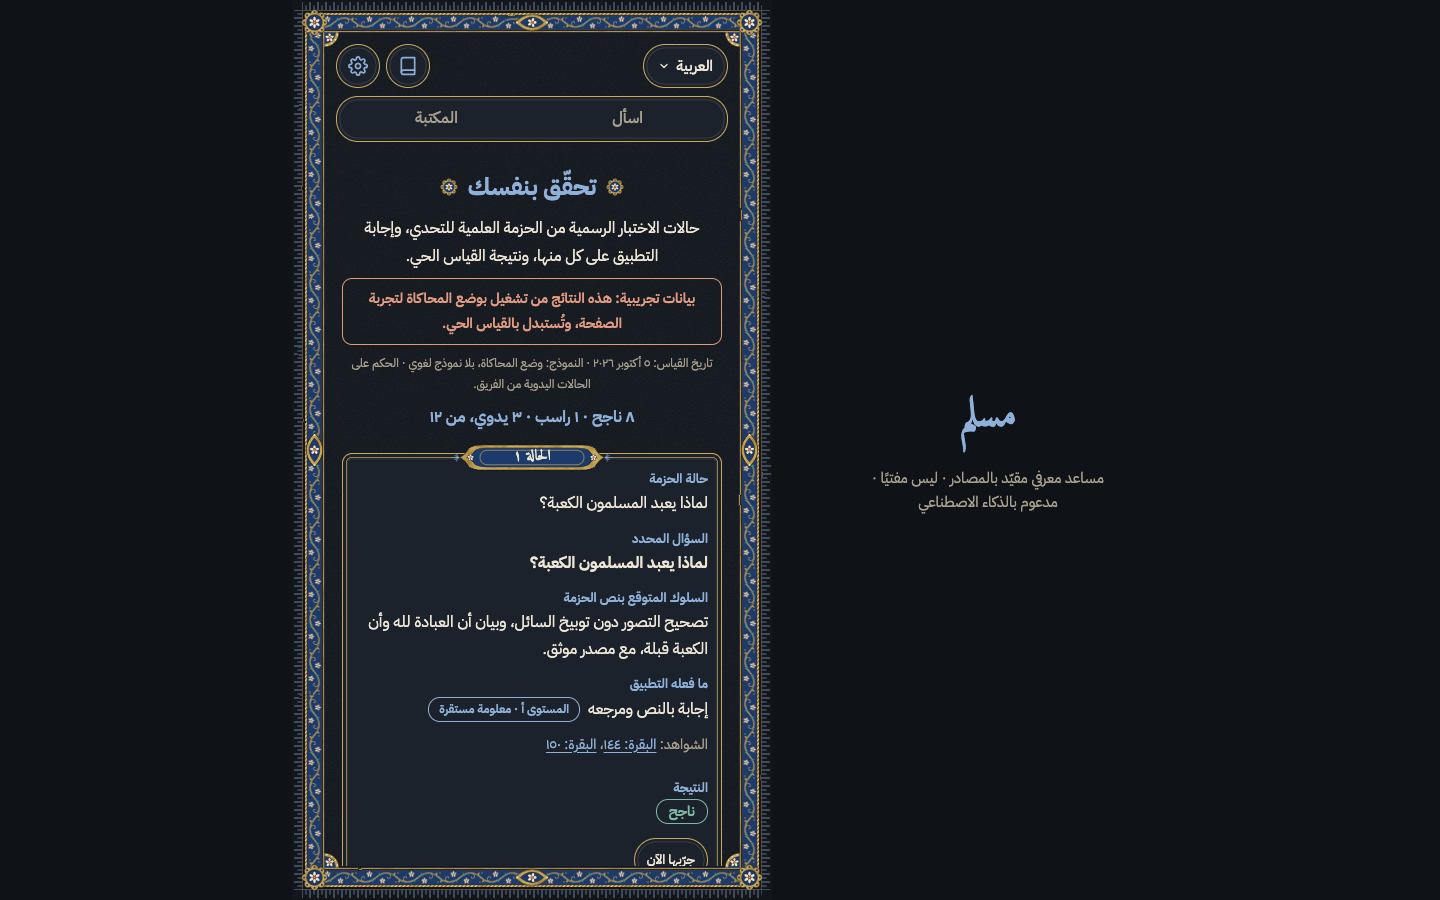
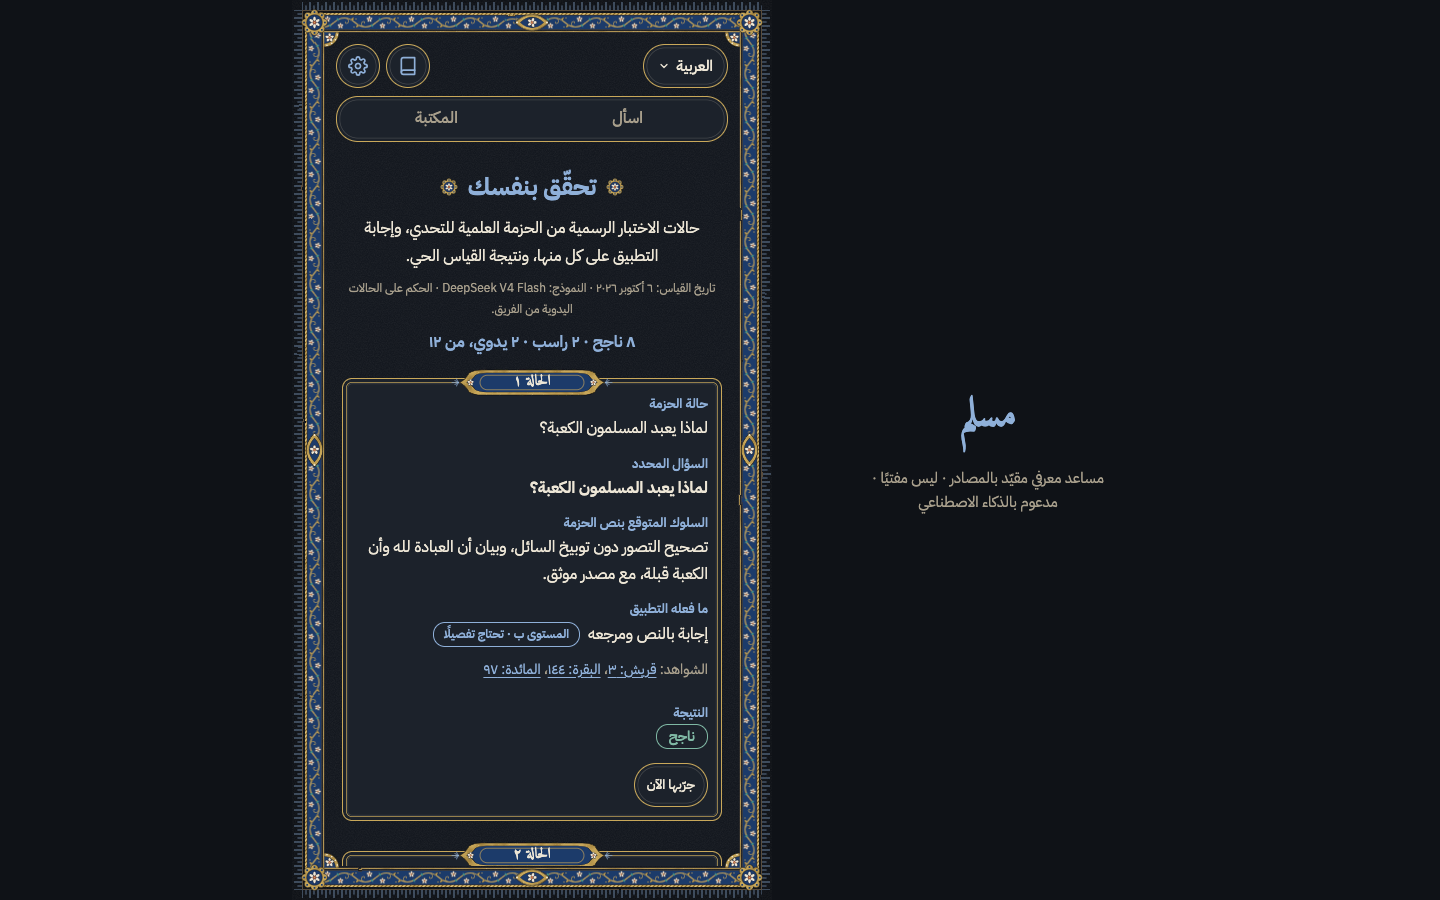
/verify on the live measurement: the official cases from official12-2026-10-06-flash-off (8 pass, 2 fail, 2 manual) and the three comparison runs; the table now also shows misquoted ayat out of those judged (1 of 31, 0, 0 for the general model; 0 for Muslim), hadith references we cannot check in our
Claude-Session: https://claude.ai/code/session_01N2F6DfE1VtyZynofspGQEu

Changed region(s): [[0.25, 0.3111, 0.5, 0.9644]]

diff --git a/web/src/verify/strings.ts b/web/src/verify/strings.ts
@@ -38,6 +38,8 @@ export type VerifyStrings = {
   cites: string
   refsInSources: string
   misattributed: string
+  hadithRefs: string
+  allVerified: string
   reportsTitle: string
   judgesLink: string
 }
@@ -77,6 +79,8 @@ const ar: VerifyStrings = {
   cites: 'ذكر مرجعًا',
   refsInSources: 'مراجع قرآنية موجودة في المصادر',
   misattributed: 'نص منسوب لآية لا يطابق نصها',
+  hadithRefs: 'مراجع حديث لا يمكن التحقق منها في مصادرنا',
+  allVerified: 'إجابات كل نصوصها «مطابق للمصدر»',
   reportsTitle: 'التقارير في GitHub',
   judgesLink: 'للمحكّمين: تحقّق بنفسك',
 }
@@ -116,6 +120,8 @@ const en: VerifyStrings = {
   cites: 'Cites a reference',
   refsInSources: 'Quran references found in the sources',
   misattributed: 'Text attributed to a verse that does not match it',
+  hadithRefs: 'Hadith references that cannot be checked in our sources',
+  allVerified: 'Answers whose every text «matches the source»',
   reportsTitle: 'Reports on GitHub',
   judgesLink: 'For the judges: check it yourself',
 }
@@ -161,6 +167,8 @@ export const VERIFY: Record<Lang, VerifyStrings> = {
     cites: 'حوالہ دیا',
     refsInSources: 'مآخذ میں موجود قرآنی حوالے',
     misattributed: 'کسی آیت سے منسوب ایسا متن جو اس سے مطابقت نہیں رکھتا',
+    hadithRefs: 'حدیث کے حوالے جن کی ہمارے مآخذ میں جانچ ممکن نہیں',
+    allVerified: 'جوابات جن کا ہر متن «ماخذ کے مطابق» ہے',
     reportsTitle: 'GitHub پر رپورٹیں',
     judgesLink: 'منصفین کے لیے: خود جانچیں',
   }),
@@ -199,6 +207,8 @@ export const VERIFY: Record<Lang, VerifyStrings> = {
     cites: 'Menyebut rujukan',
     refsInSources: 'Rujukan Al-Qur’an yang ada di sumber',
     misattributed: 'Teks yang dinisbatkan ke ayat tetapi tidak cocok',
+    hadithRefs: 'Rujukan hadis yang tidak dapat diperiksa di sumber kami',
+    allVerified: 'Jawaban yang semua teksnya «sesuai sumber»',
     reportsTitle: 'Laporan di GitHub',
     judgesLink: 'Untuk juri: periksa sendiri',
   }),
@@ -237,6 +247,8 @@ export const VERIFY: Record<Lang, VerifyStrings> = {
     cites: 'Menyebut rujukan',
     refsInSources: 'Rujukan al-Quran yang ada dalam sumber',
     misattributed: 'Teks yang dinisbahkan kepada ayat tetapi tidak sepadan',
+    hadithRefs: 'Rujukan hadis yang tidak dapat disemak dalam sumber kami',
+    allVerified: 'Jawapan yang semua teksnya «sepadan dengan sumber»',
     reportsTitle: 'Laporan di GitHub',
     judgesLink: 'Untuk hakim: semak sendiri',
   }),
@@ -275,6 +287,8 @@ export const VERIFY: Record<Lang, VerifyStrings> = {
     cites: 'Kaynak belirtti',
     refsInSources: 'Kaynaklarda bulunan Kur’an atıfları',
     misattributed: 'Bir ayete nispet edilip onunla uyuşmayan metin',
+    hadithRefs: 'Kaynaklarımızda doğrulanamayan hadis atıfları',
+    allVerified: 'Bütün metinleri «kaynakla aynı» olan cevaplar',
     reportsTitle: 'GitHub’daki raporlar',
     judgesLink: 'Jüri için: kendiniz doğrulayın',
   }),
@@ -313,6 +327,8 @@ export const VERIFY: Record<Lang, VerifyStrings> = {
     cites: 'Cite une référence',
     refsInSources: 'Références coraniques présentes dans les sources',
     misattributed: 'Texte attribué à un verset sans lui correspondre',
+    hadithRefs: 'Références de hadith invérifiables dans nos sources',
+    allVerified: 'Réponses dont tous les textes « correspondent à la source »',
     reportsTitle: 'Rapports sur GitHub',
     judgesLink: 'Pour le jury : vérifiez par vous-même',
   }),
@@ -351,6 +367,8 @@ export const VERIFY: Record<Lang, VerifyStrings> = {
     cites: 'Cita una referencia',
     refsInSources: 'Referencias coránicas presentes en las fuentes',
     misattributed: 'Texto atribuido a una aleya que no coincide con ella',
+    hadithRefs: 'Referencias de hadiz que no se pueden comprobar en nuestras fuentes',
+    allVerified: 'Respuestas con todos sus textos «iguales a la fuente»',
     reportsTitle: 'Informes en GitHub',
     judgesLink: 'Para el jurado: compruébelo usted',
   }),
@@ -389,6 +407,8 @@ export const VERIFY: Record<Lang, VerifyStrings> = {
     cites: 'সূত্র উল্লেখ করেছে',
     refsInSources: 'সূত্রে থাকা কুরআনের উদ্ধৃতি',
     misattributed: 'কোনো আয়াতের নামে এমন লেখা যা তার সাথে মেলে না',
+    hadithRefs: 'হাদিসের সূত্র যা আমাদের উৎসে যাচাই করা যায় না',
+    allVerified: 'যে উত্তরগুলোর সব লেখা «উৎসের সাথে মিলে»',
     reportsTitle: 'GitHub-এ প্রতিবেদন',
     judgesLink: 'বিচারকদের জন্য: নিজে যাচাই করুন',
   }),
@@ -427,6 +447,8 @@ export const VERIFY: Record<Lang, VerifyStrings> = {
     cites: 'संदर्भ बताया',
     refsInSources: 'स्रोतों में मौजूद क़ुरआन संदर्भ',
     misattributed: 'किसी आयत से जोड़ा गया पाठ जो उससे मेल नहीं खाता',
+    hadithRefs: 'हदीस संदर्भ जिनकी हमारे स्रोतों में जाँच संभव नहीं',
+    allVerified: 'उत्तर जिनका हर पाठ «स्रोत से मेल खाता» है',
     reportsTitle: 'GitHub पर रिपोर्टें',
     judgesLink: 'निर्णायकों के लिए: ख़ुद जाँचें',
   }),

diff --git a/web/src/verify/Verify.tsx b/web/src/verify/Verify.tsx
@@ -27,11 +27,20 @@ type Case = {
   result: Result
 }
 type Pair = [number, number]
-type Run = { file: string; n: number; cites: { general: Pair; ours: Pair }; refsInSources: { general: Pair; ours: Pair }; misattributed: { general: number; ours: number } }
+type Run = {
+  file: string
+  n: number
+  cites: { general: Pair; ours: Pair }
+  refsInSources: { general: Pair; ours: Pair }
+  misattributed: { general: Pair; ours: Pair }
+  hadithRefs: { general: number }
+  verified: { ours: Pair }
+}
 type Data = {
   mock: boolean
   date: string
   model: string | null
+  modelLabel: string | null
   mode: string | null
   cases: Case[]
   compare: { date: string; runs: Run[] } | null
@@ -152,8 +161,10 @@ function Compare() {
     [`${v.cites} — ${t.appName}`, (r) => pair(r.cites.ours)],
     [`${v.refsInSources} — ${v.general}`, (r) => pair(r.refsInSources.general)],
     [`${v.refsInSources} — ${t.appName}`, (r) => pair(r.refsInSources.ours)],
-    [`${v.misattributed} — ${v.general}`, (r) => num(r.misattributed.general)],
-    [`${v.misattributed} — ${t.appName}`, (r) => num(r.misattributed.ours)],
+    [`${v.misattributed} — ${v.general}`, (r) => pair(r.misattributed.general)],
+    [`${v.misattributed} — ${t.appName}`, (r) => pair(r.misattributed.ours)],
+    [`${v.hadithRefs} — ${v.general}`, (r) => num(r.hadithRefs.general)],
+    [`${v.allVerified} — ${t.appName}`, (r) => pair(r.verified.ours)],
   ]
   return (
     <>
@@ -209,7 +220,13 @@ export function Verify({ onTry }: { onTry: (q: string) => void }) {
         )}
         <p className="small">
           {honest[0]}
-          {data.model ? <bdi dir="ltr">{data.model}</bdi> : v.modelMock}
+          {data.modelLabel ? (
+            <bdi dir="ltr" className="verify-model" title={data.model ?? undefined}>
+              {data.modelLabel}
+            </bdi>
+          ) : (
+            v.modelMock
+          )}
           {honest[1]}
         </p>
         <p className="verify-tally">

diff --git a/web/src/verify/verify.css b/web/src/verify/verify.css
@@ -136,3 +136,10 @@
 .verify-entry .text-link {
   font-size: 0.875rem;
 }
+.verify-model {
+  white-space: nowrap;
+}
+.verify-table thead th,
+.verify-table td {
+  white-space: nowrap;
+}
